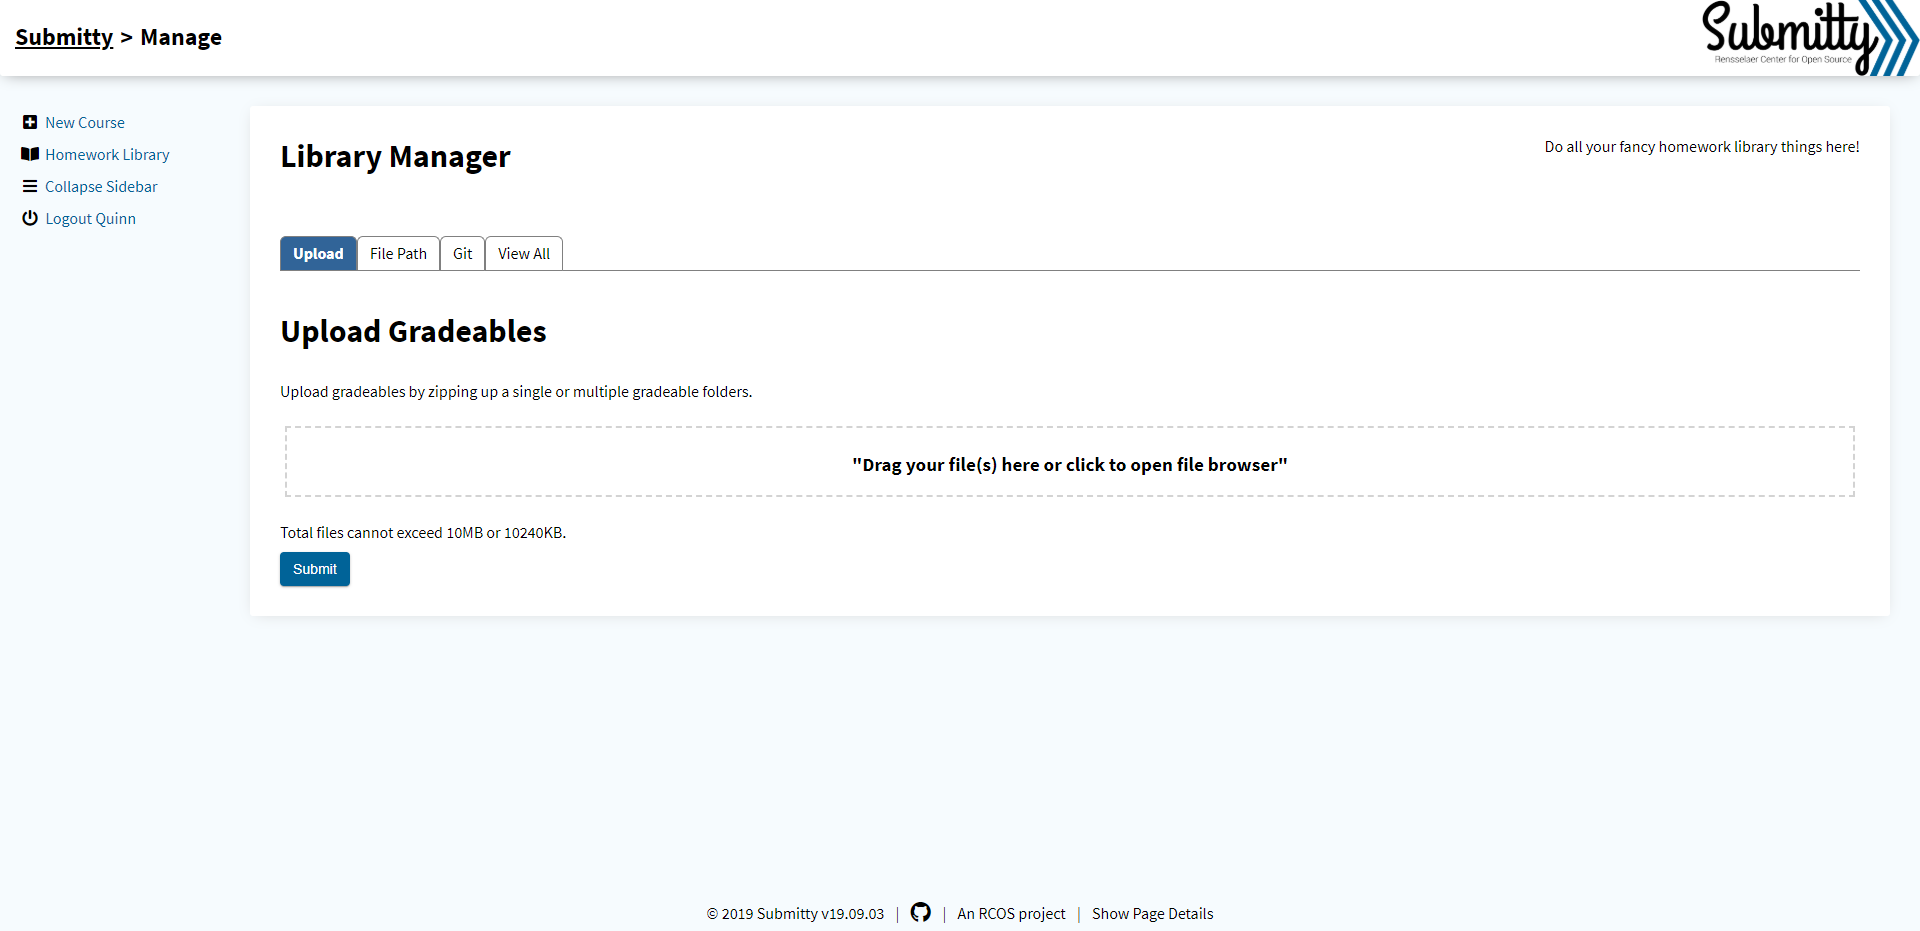
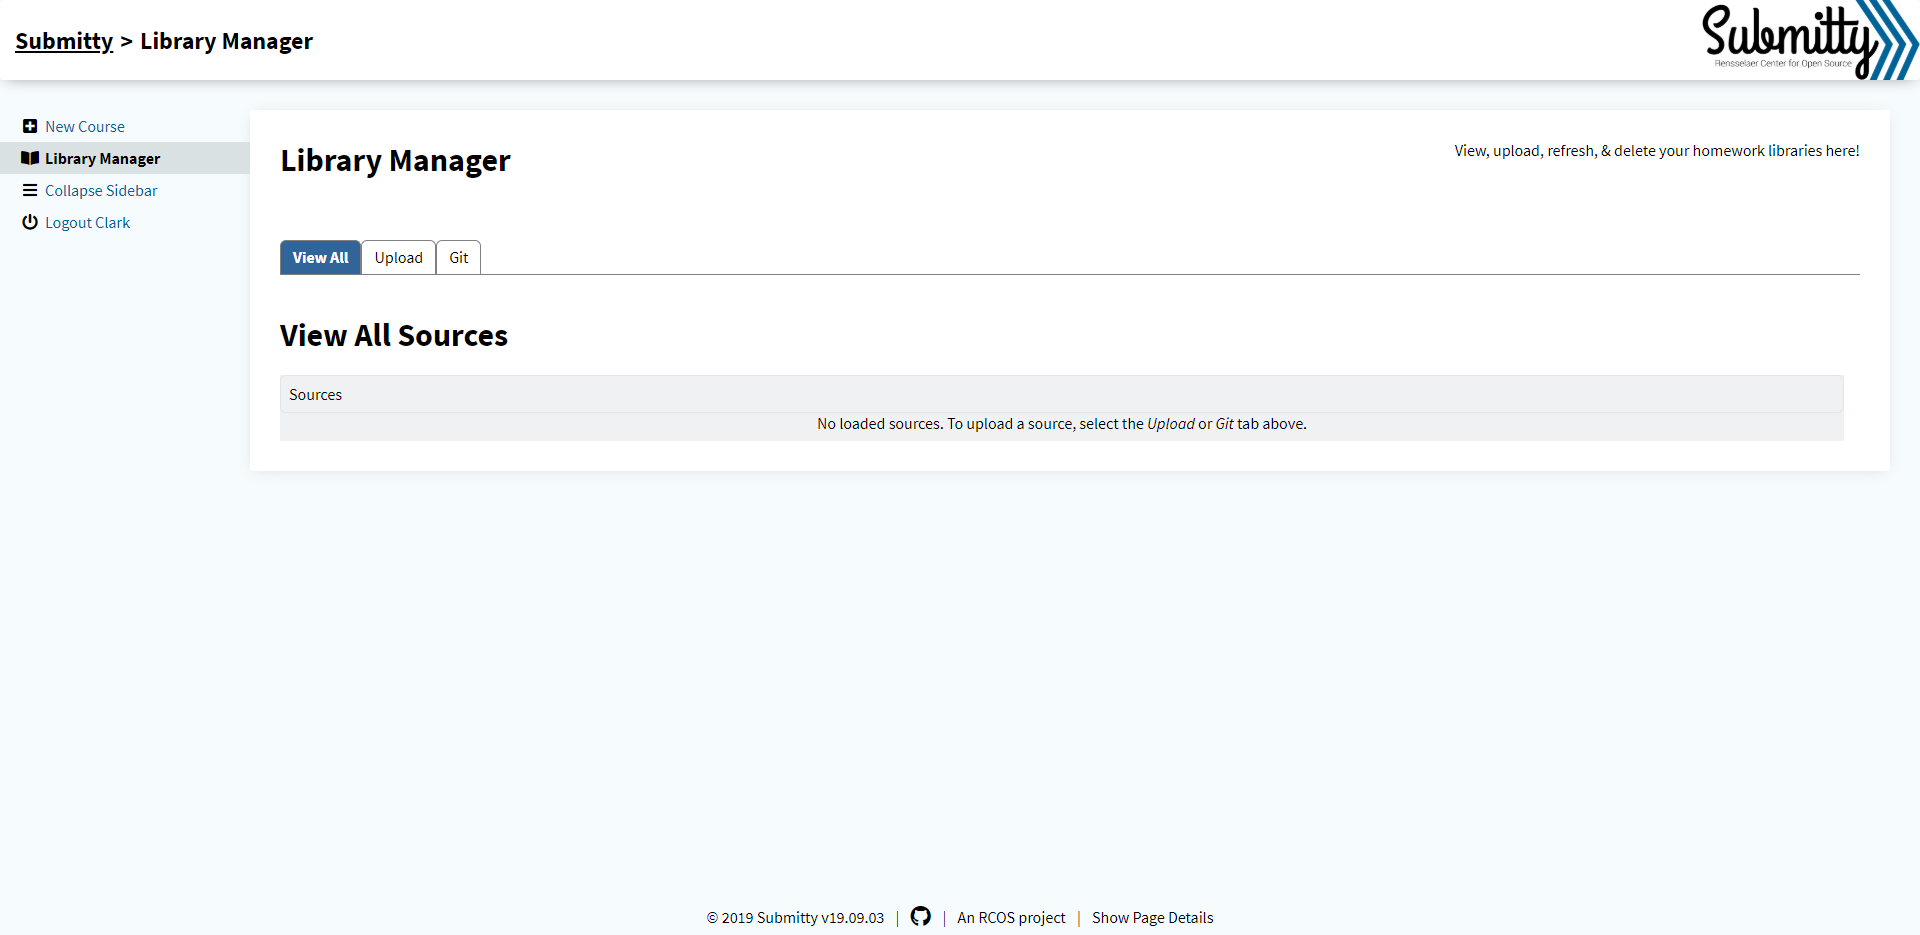
Updated library manager documentation and images

diff --git a/_docs/instructor/library_manager.md b/_docs/instructor/library_manager.md
@@ -7,48 +7,50 @@ category: Instructor
 
 ### Manage Your Homework Library
 
-In the library management page, you can upload new gradeables 
-by multiple means, such as in one large .zip file, by a file 
-path, or from a Git repo. 
+In the library management page, new gradeables can be uploaded 
+by means of a .zip file or from a Git repo. To access this page, 
+the user should choose the "Homework Library" button from the 
+left sidebar of the Submitty homepage. 
 
-To access this page, the user should choose "Homework Library" 
-from the left sidebar, and then select the "Manage Libraries" 
-button at the top right of the Homework Library page. 
+![](/images/library_manager_submitty_homepage)
 
 _NOTE: This is a feature reserved for users with admin priveleges._
 
 ### Uploading Gradeables
 
-There are three ways of uploading new gradeables in the homework 
-library manager: by .zip file, by file path, or by Git repo.
+There are two ways of uploading new gradeables in the homework 
+library manager: by .zip file or by Git repo.
 
-**_Upload by Zip File_** To upload a gradeable through a zipped 
-file, the "Upload" tab should first be selected. This tab is 
-selected by default when the Library Manager page is first opened. 
+**_Upload by Zip File:_** To upload a gradeable through a zipped 
+file, the "Upload" tab should first be selected.  
     
 When uploading using a .zip file, the gradeable should be inside 
-of a folder,and that folder should be located in the root directory 
-of the zipped file. You can include multiple gradeables inside one 
+of a folder, and that folder should be located in the root directory 
+of the zipped file. The uploader identifies the details of a gradeable 
+by means of a config json. An example file structure can be seen on
+the upload page. Multiple gradeables can be included inside one 
 upload, as long as it doesn't exceed the maximum upload size of 
-10MB. An example of the upload page can be seen in the image above.
+10MB.
 
-**_Upload by File Path:_** When the instructor selects the "File 
-Path" tab, there will be a text box where a file path to a location 
-on the server can be entered. Hitting "Submit" will add any 
-gradeables stored at this file path to the library.
-
-**_Upload by Git Repository:_** When the instructor selects the 
-"Git" tab, there will be a text box where a Git repo URL can be 
-entered. Hitting "Submit" will add any gradeables kept in the 
-specified git repo.
+**_Upload by Git Repository:_** When the "Git" tab is selected, 
+there will be a text box where a Git repo URL can be specified, 
+as well as a field for specifying what you would like the source 
+to be named. Leaving this name field blank will cause the source 
+to have the same name as the Git repo. Hitting "Submit" will then 
+pull the repo and any gradeables within to the library.
 
 ### Existing Source Management
 
-![](/images/library_manager_viewall.png)
+![](/images/library_manager_viewall)
 
-The last tab, "View All", is for managing previously uploaded 
-gradeables. You can choose to search the list, delete gradeables, 
-or, in the case of gradeables uploaded by file path or Git URL, 
-refresh gradeables. By choosing to refresh a gradeable, the file 
-path or Git repo will be checked for changes, and the exiting 
-gradeables will be replaced with the more current ones.
+The "View All" tab is for managing previously uploaded gradeables, 
+and is selected by default when the library manager is opened. From
+here, a list of previously uploaded sources can be seen, along with
+the option to refresh or delete each source. The View All page as well
+as an example source can be seen in the image above.
+
+Choosing "Delete" will remove the source from the library. Choosing 
+"Refresh" for a source uploaded from a Git repo will pull any changes 
+from the repo that was originally used to add the source. Note that the
+Refresh button will not work for sources uploaded by means of a .zip 
+file, and will generate an error.
